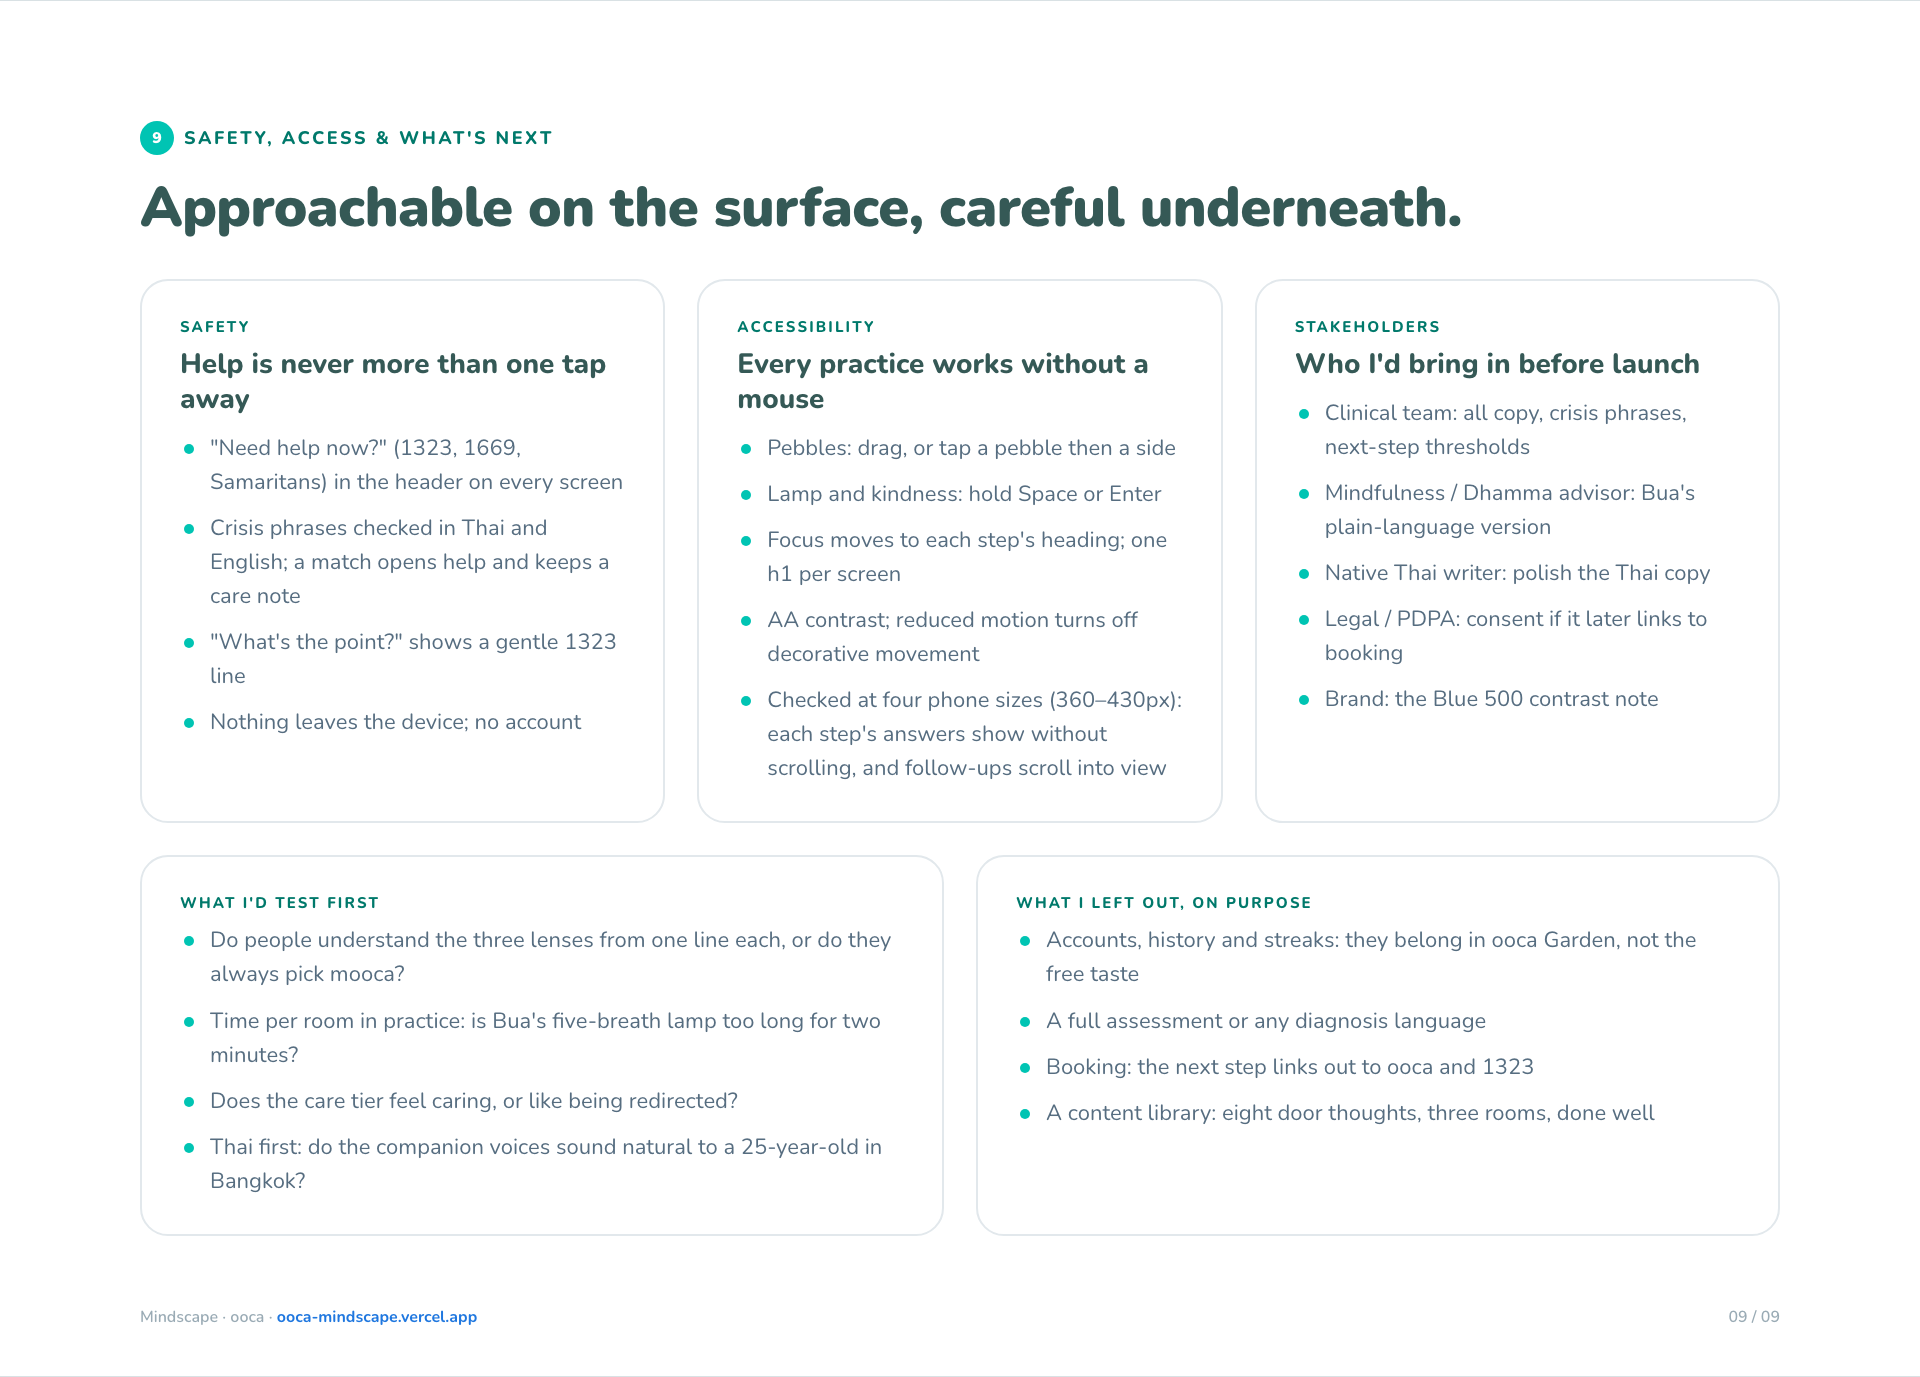
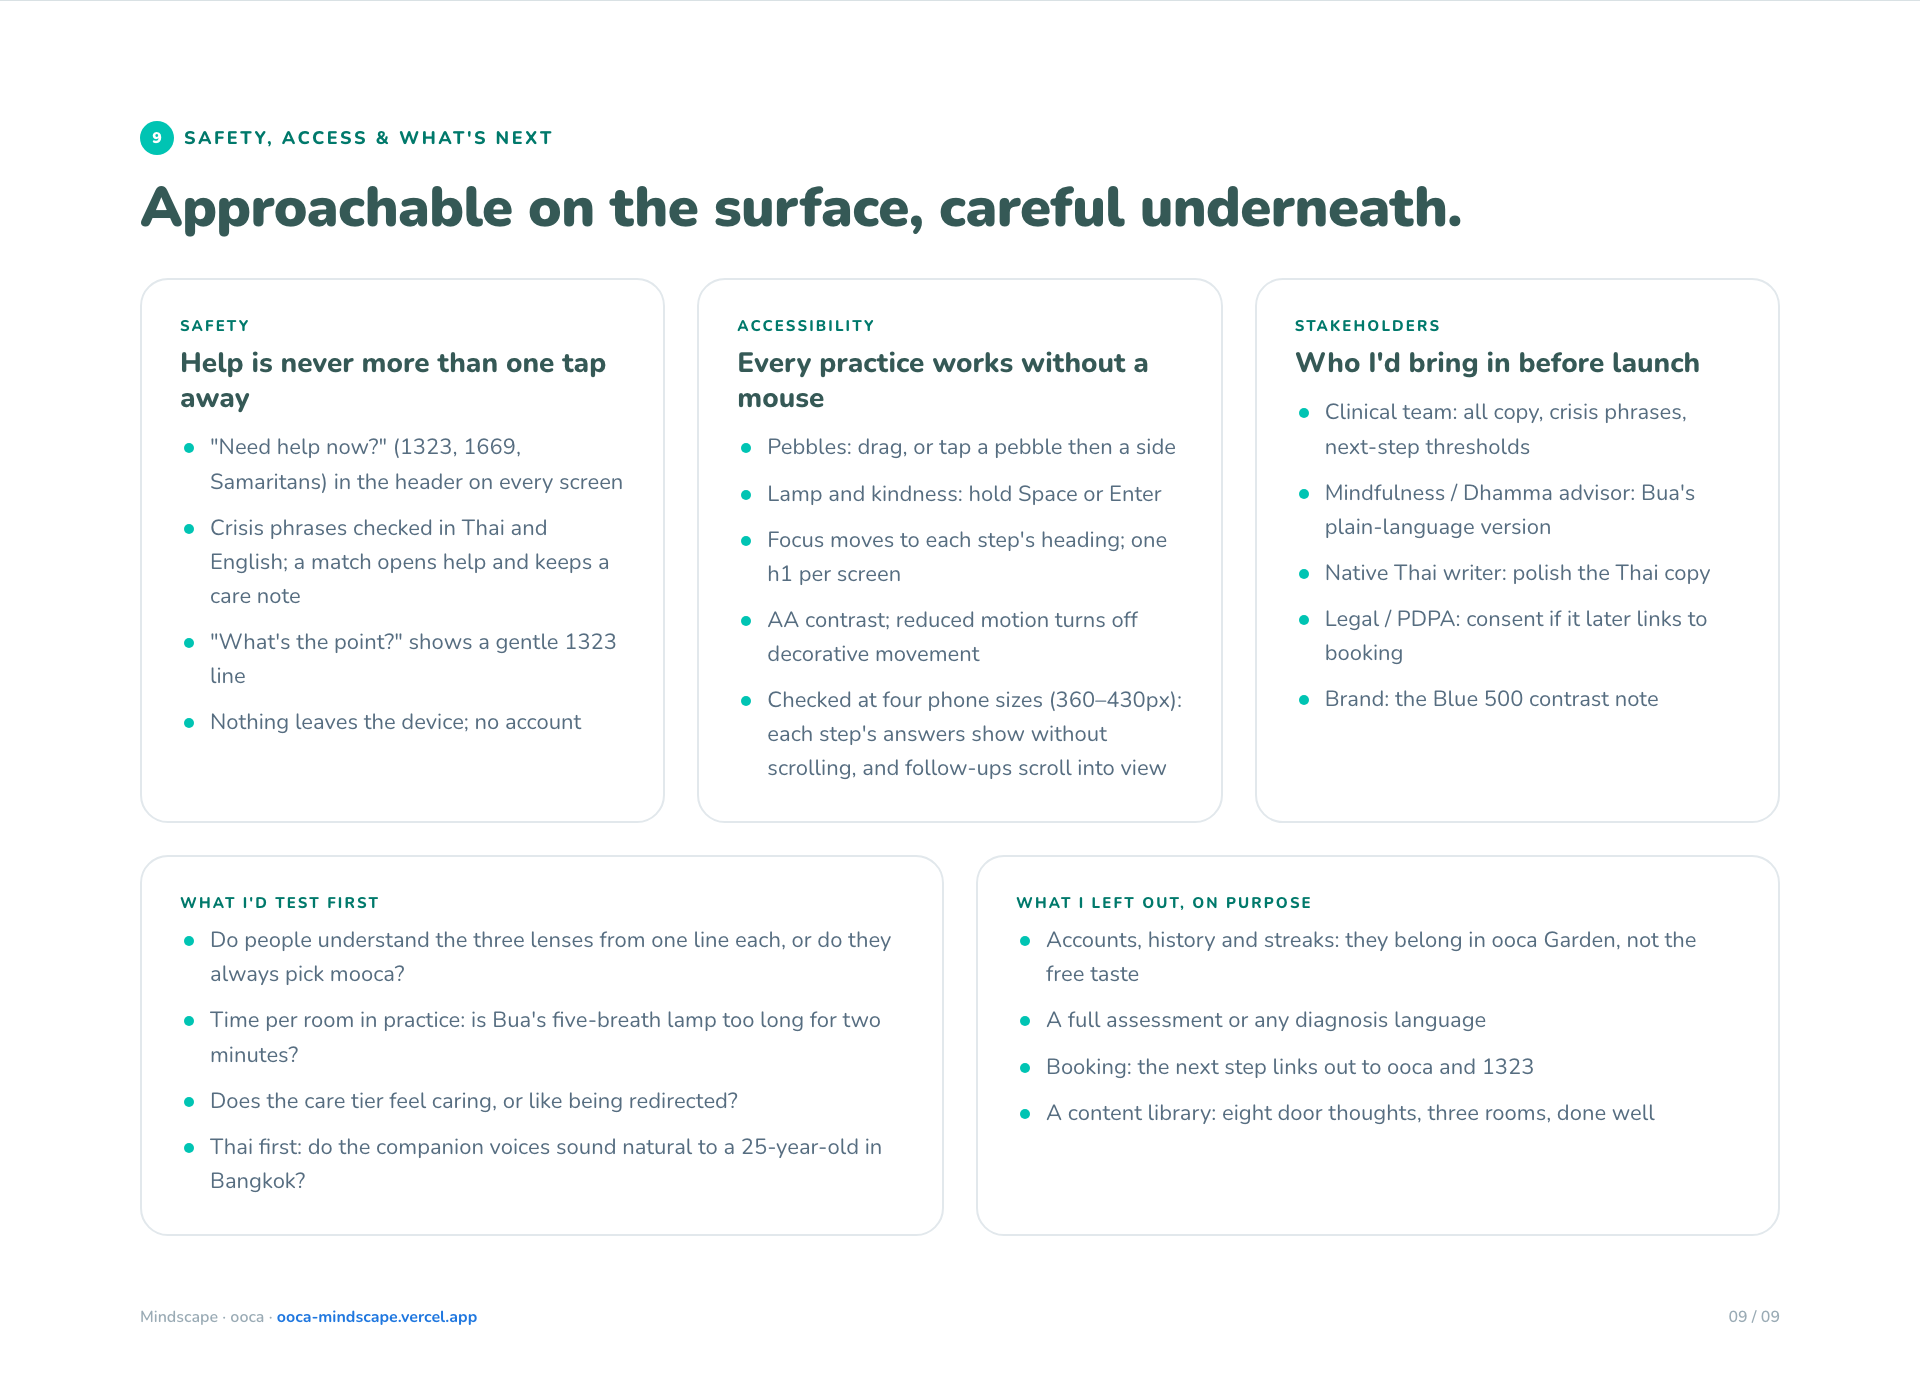
Board: decisions as four tensions, with cost and failure signal

diff --git a/public/board/index.html b/public/board/index.html
@@ -148,6 +148,20 @@ ul.clean li:before{content:"";position:absolute;left:4px;top:13px;width:10px;hei
 .dec--four .vs div{font-size:21px;padding:20px 22px}
 .dec--four .vs small{font-size:14px}
 .dec--four .why{font-size:22px}
+.tens{margin-top:48px}
+.tens__head,.tens__row{display:grid;grid-template-columns:230px 1.25fr 150px 1fr 1fr;gap:36px;align-items:center}
+.tens__head{padding:0 0 14px;border-bottom:2px solid var(--line)}
+.tens__head span{font-size:15px;font-weight:800;letter-spacing:.14em;text-transform:uppercase;color:var(--turq-text)}
+.tens__row{padding:30px 0;border-bottom:2px solid var(--line)}
+.tens__pull{display:flex;flex-direction:column;align-items:flex-start;gap:6px}
+.tens__pull b{font-size:22px;font-weight:900;color:var(--turq-gray-1);background:var(--turq-50);padding:6px 14px;border-radius:999px}
+.tens__pull i{width:2px;height:18px;margin-left:22px;background:repeating-linear-gradient(var(--turq-500) 0 4px,transparent 4px 7px)}
+.tens__dec h3{font-size:30px;margin-bottom:8px}
+.tens__dec p{font-size:20px}
+.tens__img .phone{width:150px;border-radius:24px;box-shadow:0 0 0 5px #fff,0 0 0 6px #dfe7ea,0 18px 36px -18px rgba(0,80,72,.35)}
+.tens__img .phone img{height:250px;object-fit:cover;object-position:top}
+.tens__cost p{font-size:20px;color:#7a4a12;background:#fdf3dc;border-radius:18px;padding:18px 20px}
+.tens__sig p{font-size:20px;color:var(--ink)}
 </style>
 <script src="https://mcp.figma.com/mcp/html-to-design/capture.js" async></script>
 </head>
@@ -358,20 +372,37 @@ ul.clean li:before{content:"";position:absolute;left:4px;top:13px;width:10px;hei
 <!-- 07 DECISIONS -->
 <section class="frame" id="decisions">
   <span class="tag"><b>7</b>Decisions &amp; trade-offs</span>
-  <h2>What I chose, what I tried and dropped, and why.</h2>
-  <div class="dec dec--four">
-    <div class="card"><h3>Taste three, go deep in one</h3>
-      <div class="vs"><div class="yes"><small>Chose</small>One line from each companion, then one full room</div><div class="no"><small>Instead of</small>Three rooms in a row</div></div>
-      <p class="why">Comparison is the idea, but three rooms back to back would be long and repetitive, and blow the two-minute budget.</p></div>
-    <div class="card"><h3>No scores</h3>
-      <div class="vs"><div class="yes"><small>Chose</small>Weather, pebbles, breaths: no numbers in or out</div><div class="no"><small>Tried &amp; dropped</small>Rating the thought 0–100% before and after</div></div>
-      <p class="why">The rating read like a test. A score on something this personal can feel like a grade.</p></div>
-    <div class="card"><h3>One card, not two</h3>
-      <div class="vs"><div class="yes"><small>Chose</small>The room's findings become the one closing card</div><div class="no"><small>Tried &amp; dropped</small>A card per room, plus a "finish this sentence" step</div></div>
-      <p class="why">Every room already puts the user's own words on the card. The extra step only delayed the payoff.</p></div>
-    <div class="card"><h3>Never sell on the care tier</h3>
-      <div class="vs"><div class="yes"><small>Chose</small>Psychologist + 1323 only, when it's heavy and lasting</div><div class="no"><small>Instead of</small>The app promo shown to everyone</div></div>
-      <p class="why">Trust is the product. Someone struggling for weeks should see help, not a feature.</p></div>
+  <h2>The brief pulls four ways at once. Here is where I landed, and what it cost.</h2>
+  <div class="tens">
+    <div class="tens__head"><span>The tension</span><span>The decision</span><span></span><span>What it cost</span><span>How I'd know it's wrong</span></div>
+    <div class="tens__row">
+      <div class="tens__pull"><b>Two minutes</b><i></i><b>Something meaningful</b></div>
+      <div class="tens__dec"><h3>Taste three, go deep in one</h3><p>One line from each companion, then one full room. The comparison is the idea; doing three rooms back to back would blow the budget.</p></div>
+      <div class="tens__img"><div class="phone"><img src="screens/m-voices.png" alt=""></div></div>
+      <div class="tens__cost"><p>Nobody gets every lens in depth. Someone who picks the "wrong" friend never sees the others work.</p></div>
+      <div class="tens__sig"><p>Most people drop off at the three voices, or never come back to try a second friend.</p></div>
+    </div>
+    <div class="tens__row">
+      <div class="tens__pull"><b>Approachable</b><i></i><b>A sensitive topic</b></div>
+      <div class="tens__dec"><h3>No scores, ever</h3><p>Weather, pebbles and breaths stand in for measures. Tried and dropped: rating the thought 0–100% before and after. It read like a test.</p></div>
+      <div class="tens__img"><div class="phone"><img src="screens/mooca-weather.png" alt=""></div></div>
+      <div class="tens__cost"><p>No before/after number to show that it worked, for the user or for ooca.</p></div>
+      <div class="tens__sig"><p>Most people tap "Not really" to "Do you understand yourself a little better?"</p></div>
+    </div>
+    <div class="tens__row">
+      <div class="tens__pull"><b>Engaging</b><i></i><b>Actually useful</b></div>
+      <div class="tens__dec"><h3>The interaction is the exercise</h3><p>Each room's gesture is the real technique: sorting pebbles is the dichotomy of control, holding still is what settles the pond.</p></div>
+      <div class="tens__img"><div class="phone"><img src="screens/hin-sort.png" alt=""></div></div>
+      <div class="tens__cost"><p>Slower than a quiz, and harder to build: every gesture needs a tap and keyboard alternative.</p></div>
+      <div class="tens__sig"><p>People abandon a room at its gesture step. Bua's five breaths is the one to watch.</p></div>
+    </div>
+    <div class="tens__row">
+      <div class="tens__pull"><b>Care</b><i></i><b>Business</b></div>
+      <div class="tens__dec"><h3>Size the next step to the signal</h3><p>Light: keep the card, and ooca Garden is offered. Heavy for weeks, or crisis words: only a psychologist and 1323. Never sell to someone struggling.</p></div>
+      <div class="tens__img"><div class="phone"><img src="screens/hin-duration.png" alt=""></div></div>
+      <div class="tens__cost"><p>Fewer app installs from the people who are hurting most.</p></div>
+      <div class="tens__sig"><p>On the care tier, almost nobody taps "Talk to an ooca psychologist" or 1323.</p></div>
+    </div>
   </div>
   <div class="foot"><span>Mindscape · ooca</span><span>07 / 09</span></div>
 </section>
